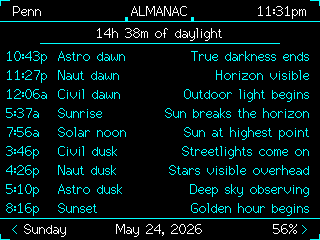
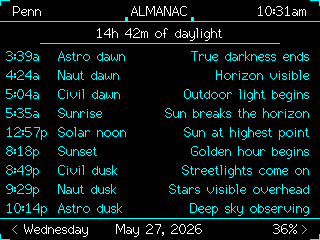
Update ALMANAC screenshot and README phase ordering
README now lists the corrected evening order: sunset before civil/naut/astro dusk.

diff --git a/README.md b/README.md
@@ -8,7 +8,7 @@ A tactical environmental monitoring station for the ESP32-2432S028 (CYD / Cheap 
 
 | NOW | ALMANAC | SETTINGS |
 |-----|---------|----------|
-| ![NOW](ScreenShots/NOW.png) | ![ALMANAC](ScreenShots/ALMANAC.png) | ![SETTINGS](https://raw.githubusercontent.com/xXQuantumSmokeXx/xXCYD-Weather-StationXx/master/ScreenShots/SETTINGS.png) |
+| ![NOW](ScreenShots/NOW.png) | ![ALMANAC](ScreenShots/ALMANAC.png) | ![SETTINGS](ScreenShots/SETTINGS-2026.png) |
 
 | HOURLY | 5-DAY | SOLAR |
 |--------|-------|-------|
@@ -63,7 +63,7 @@ A tactical environmental monitoring station for the ESP32-2432S028 (CYD / Cheap 
 
 **ALMANAC screen:**
 - Solar day timeline calculated from GPS coordinates — no API needed
-- 9 phases: astronomical dawn, nautical dawn, civil dawn, sunrise, solar noon, civil dusk, nautical dusk, astronomical dusk, sunset
+- 9 phases: astronomical dawn, nautical dawn, civil dawn, sunrise, solar noon, sunset, civil dusk, nautical dusk, astronomical dusk
 - Each phase shows calculated time, phase label, and practical field note (e.g. "Horizon visible", "Golden hour begins")
 - Daylight duration hero line at top (e.g. "10h 23m of daylight")
 - Falls back to OpenWeatherMap sunrise/sunset times when available
